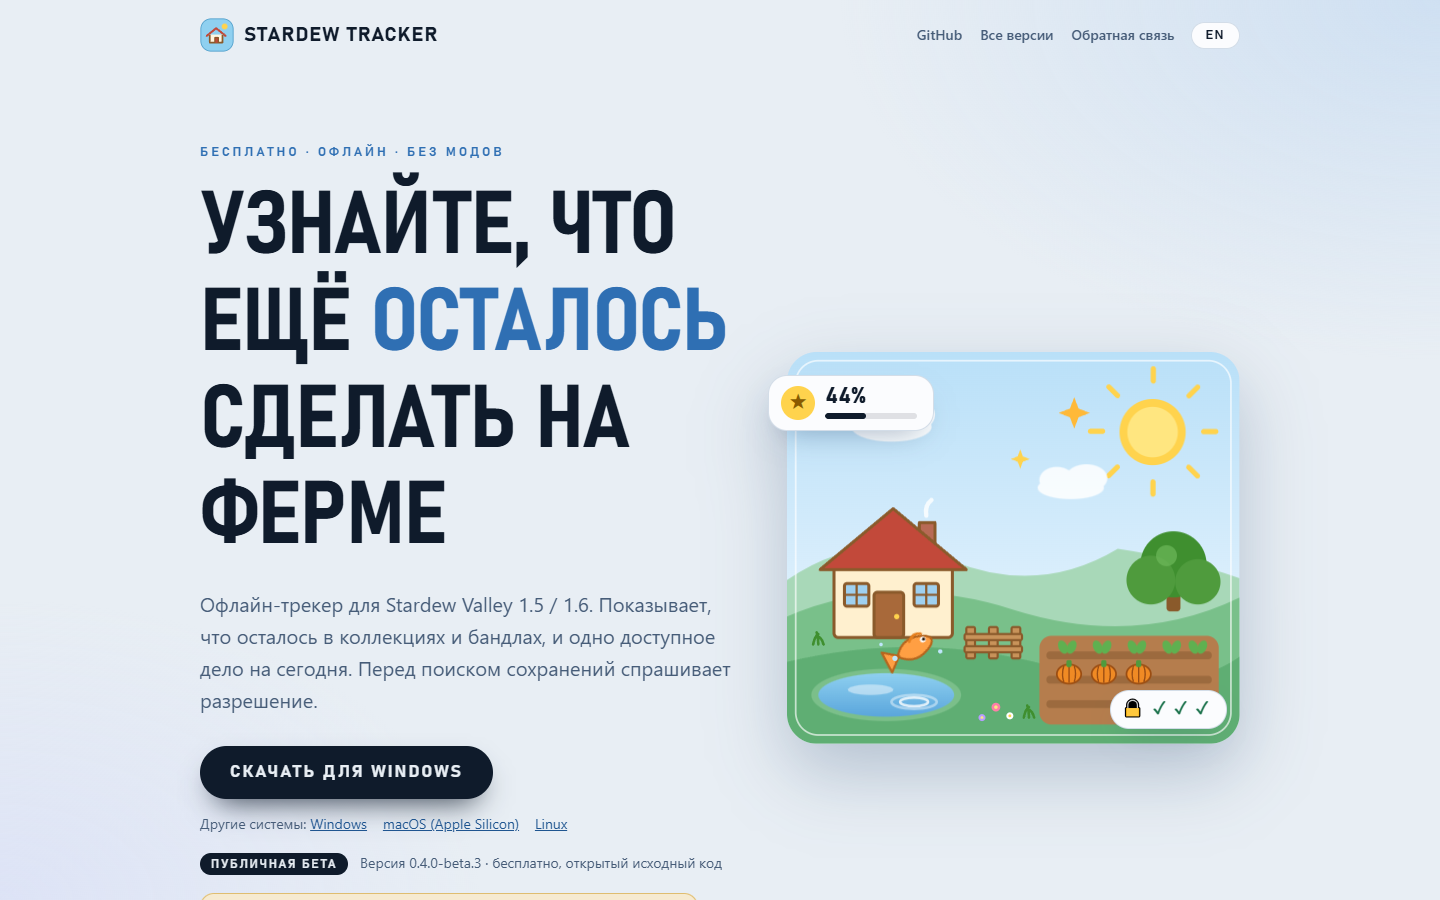
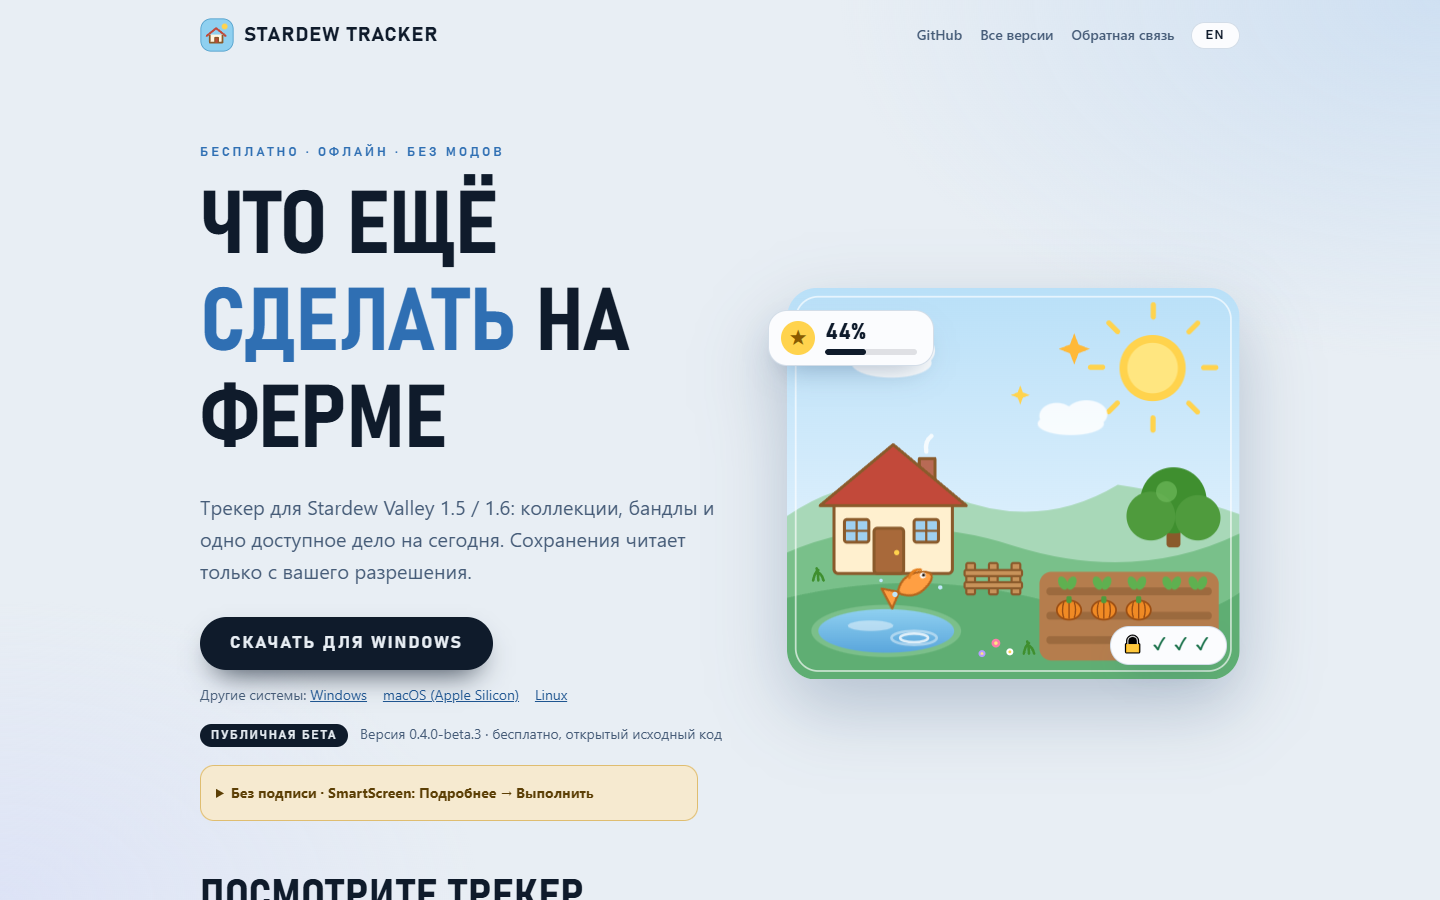
fix(site): shorten phone copy and accept Linux OS links

Changed region(s): [[0.5312, 0.3111, 0.875, 0.8711], [0.125, 0.5289, 0.5, 1.0], [0.125, 0.1867, 0.5, 0.4978]]

diff --git a/site/index.template.html b/site/index.template.html
@@ -570,9 +570,9 @@
         .links {
           grid-column: 1 / -1;
           grid-row: 2;
-          gap: 6px 14px;
+          gap: 6px 10px;
           margin: 0;
-          font-size: 13px;
+          font-size: 12.5px;
         }
         .lang-switch {
           grid-column: 2;
@@ -654,7 +654,7 @@
           <p class="kicker"><span lang="en">Free · offline · no mods</span><span lang="ru">Бесплатно · офлайн · без модов</span></p>
           <h1>
             <span lang="en">Know what's <em>left</em> on your farm</span>
-            <span lang="ru">Узнайте, что ещё <em>осталось</em> сделать на ферме</span>
+            <span lang="ru">Что ещё <em>сделать</em> на ферме</span>
           </h1>
           <p class="lead">
             <span lang="en">
@@ -662,13 +662,13 @@
               thing to do today. It asks before looking for saves.
             </span>
             <span lang="ru">
-              Офлайн-трекер для Stardew Valley 1.5 / 1.6. Показывает, что осталось в коллекциях и бандлах, и одно доступное
-              дело на сегодня. Перед поиском сохранений спрашивает разрешение.
+              Трекер для Stardew Valley 1.5 / 1.6: коллекции, бандлы и одно доступное дело на сегодня. Сохранения читает
+              только с вашего разрешения.
             </span>
           </p>
           <p class="mobile-note">
             <span lang="en">The app runs on a computer, not a phone. See the interface below or open this page on your PC to download it.</span>
-            <span lang="ru">Приложение работает на компьютере, а не на телефоне. Посмотрите интерфейс ниже или откройте эту страницу на ПК для загрузки.</span>
+            <span lang="ru">Работает на компьютере, не на телефоне. Посмотрите интерфейс ниже; скачайте на ПК.</span>
           </p>
 
           <div class="cta">

diff --git a/tools/site_visual_smoke.js b/tools/site_visual_smoke.js
@@ -69,7 +69,7 @@ const phoneUA = "Mozilla/5.0 (iPhone; CPU iPhone OS 17_0 like Mac OS X) AppleWeb
         if (mobile && (result.primary !== "#look" || !result.mobile || !result.artHidden || result.proofTop > 900 || result.headerAlignment > 15)) {
           failures.push(`${width}/${lang}: phone did not lead to a nearby app preview ${JSON.stringify(result)}`);
         }
-        if (!mobile && (!result.primary.includes("StardewTracker-windows-v") || result.artHidden)) {
+        if (!mobile && (!/StardewTracker-(windows|macos|linux)-v/.test(result.primary) || result.artHidden)) {
           failures.push(`${width}/${lang}: desktop download or illustration missing`);
         }
         if (mobile) {
